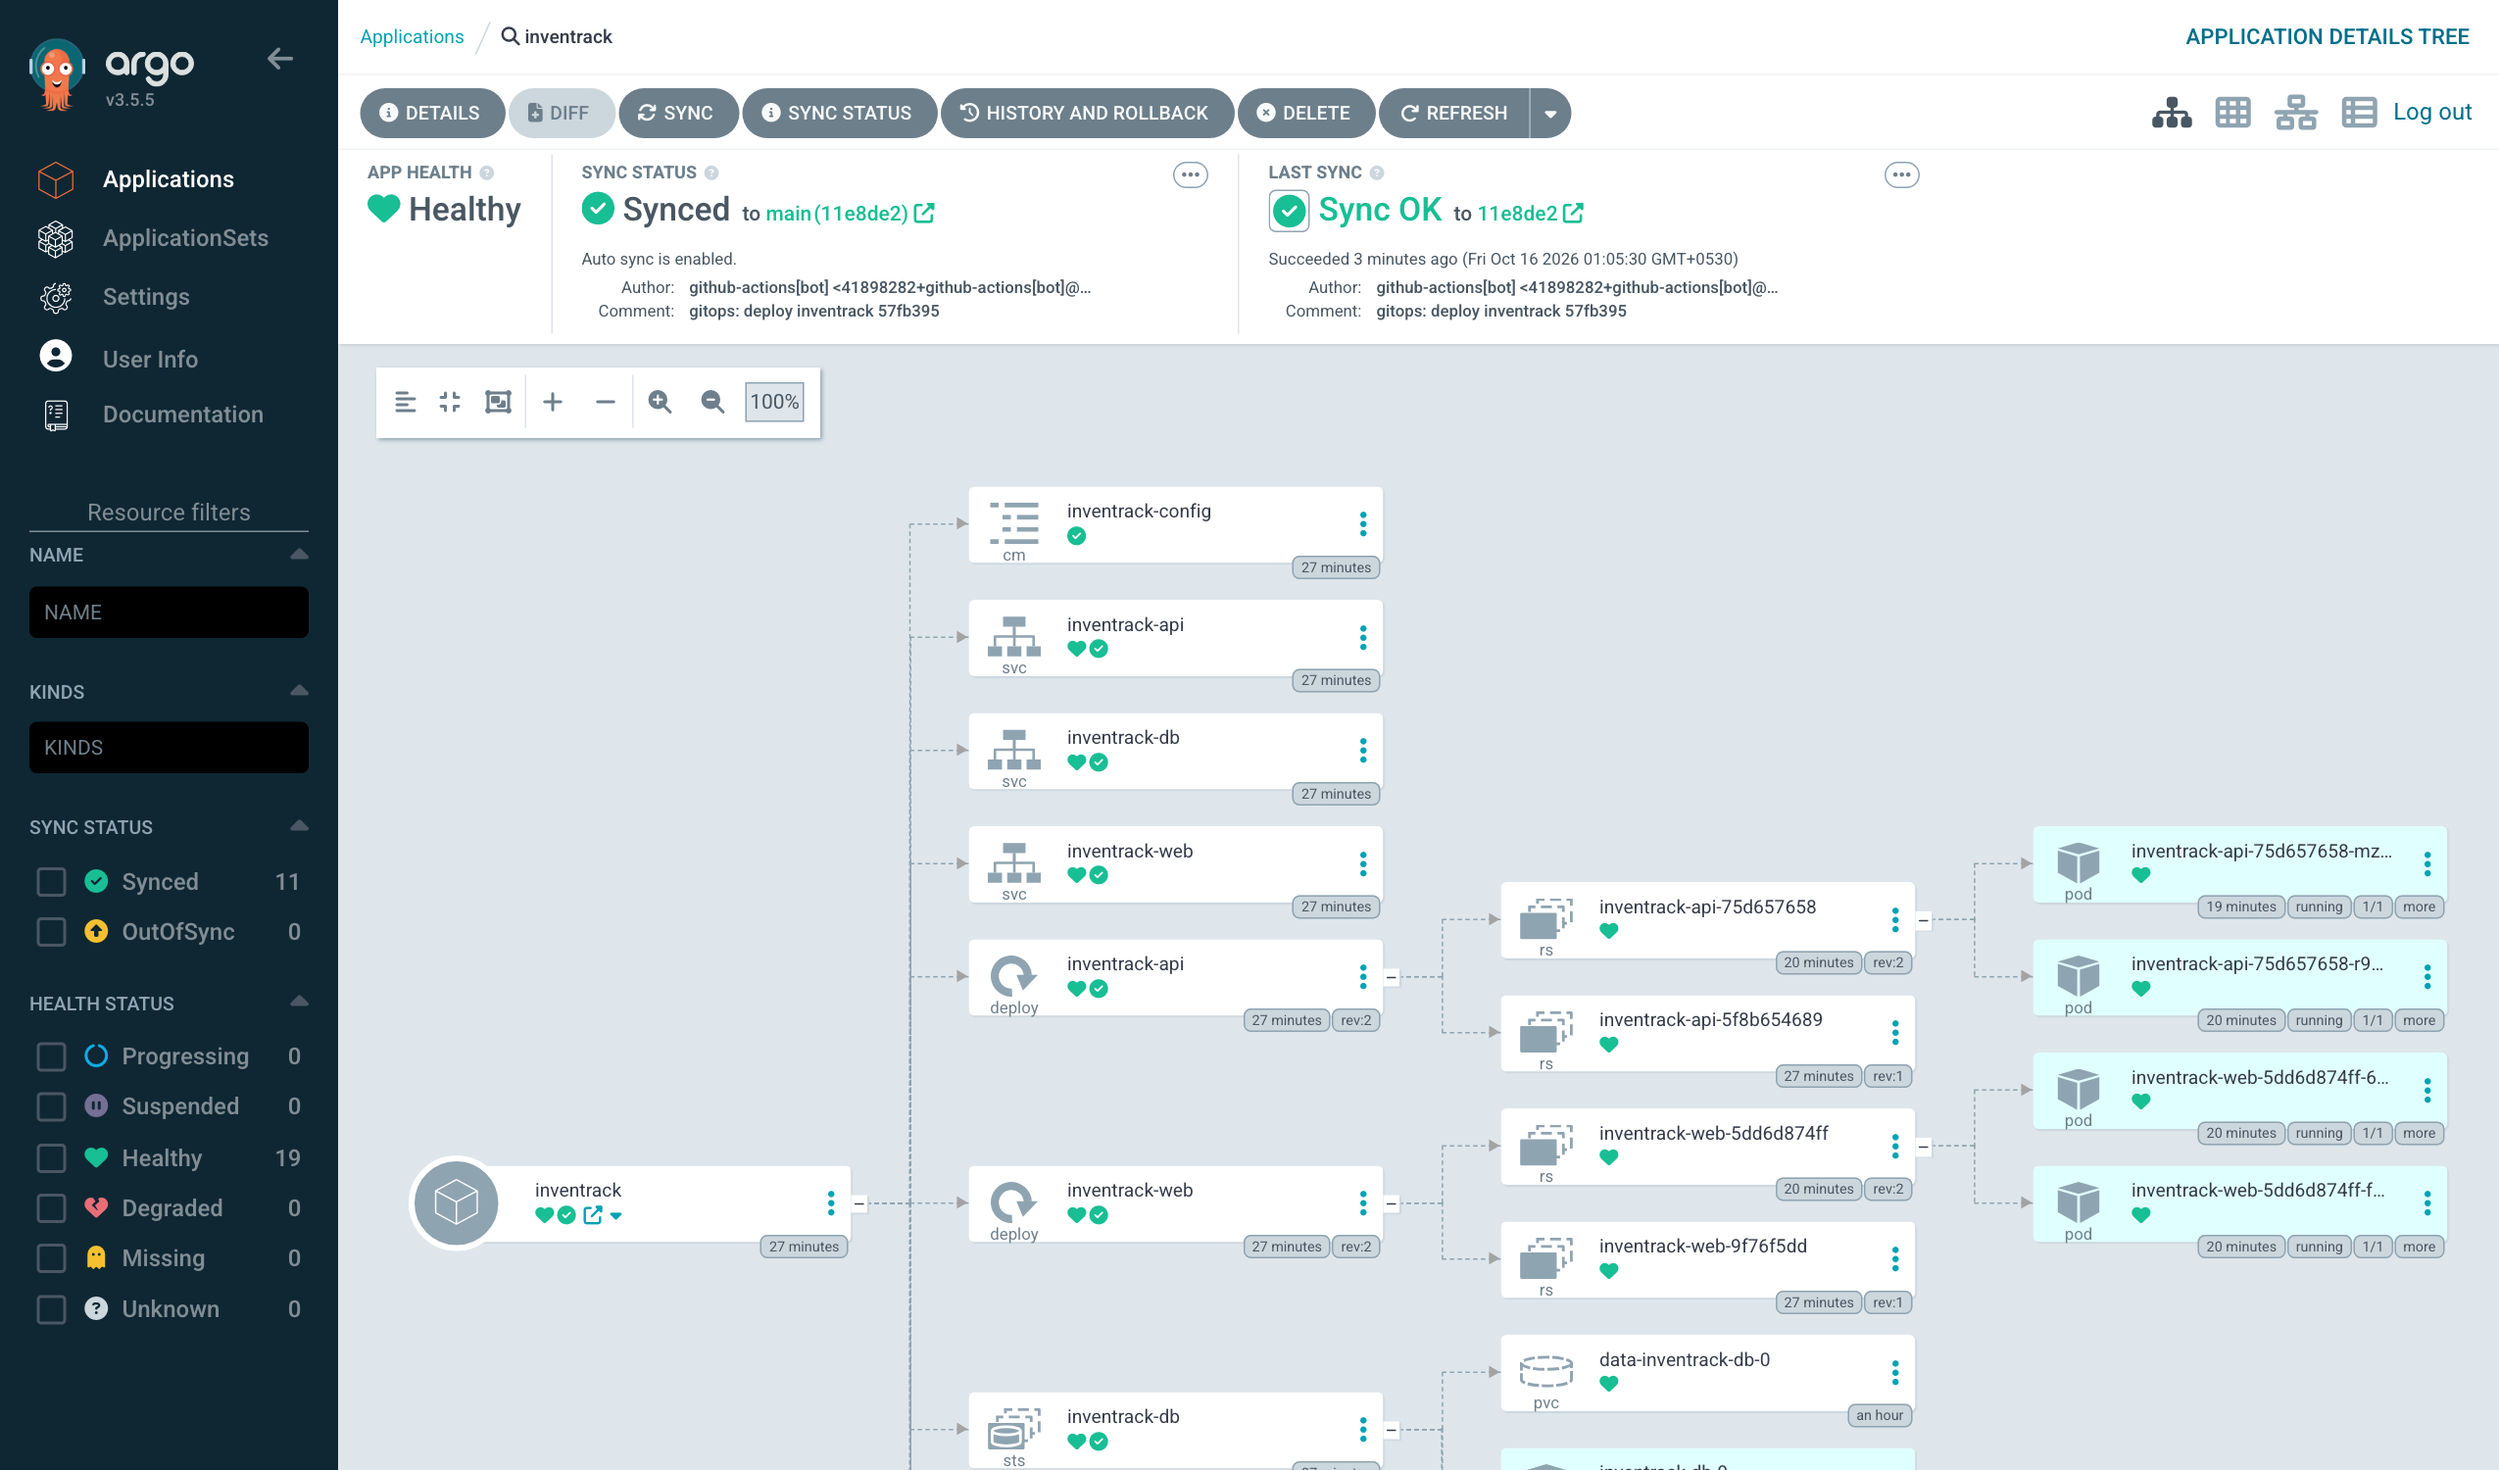
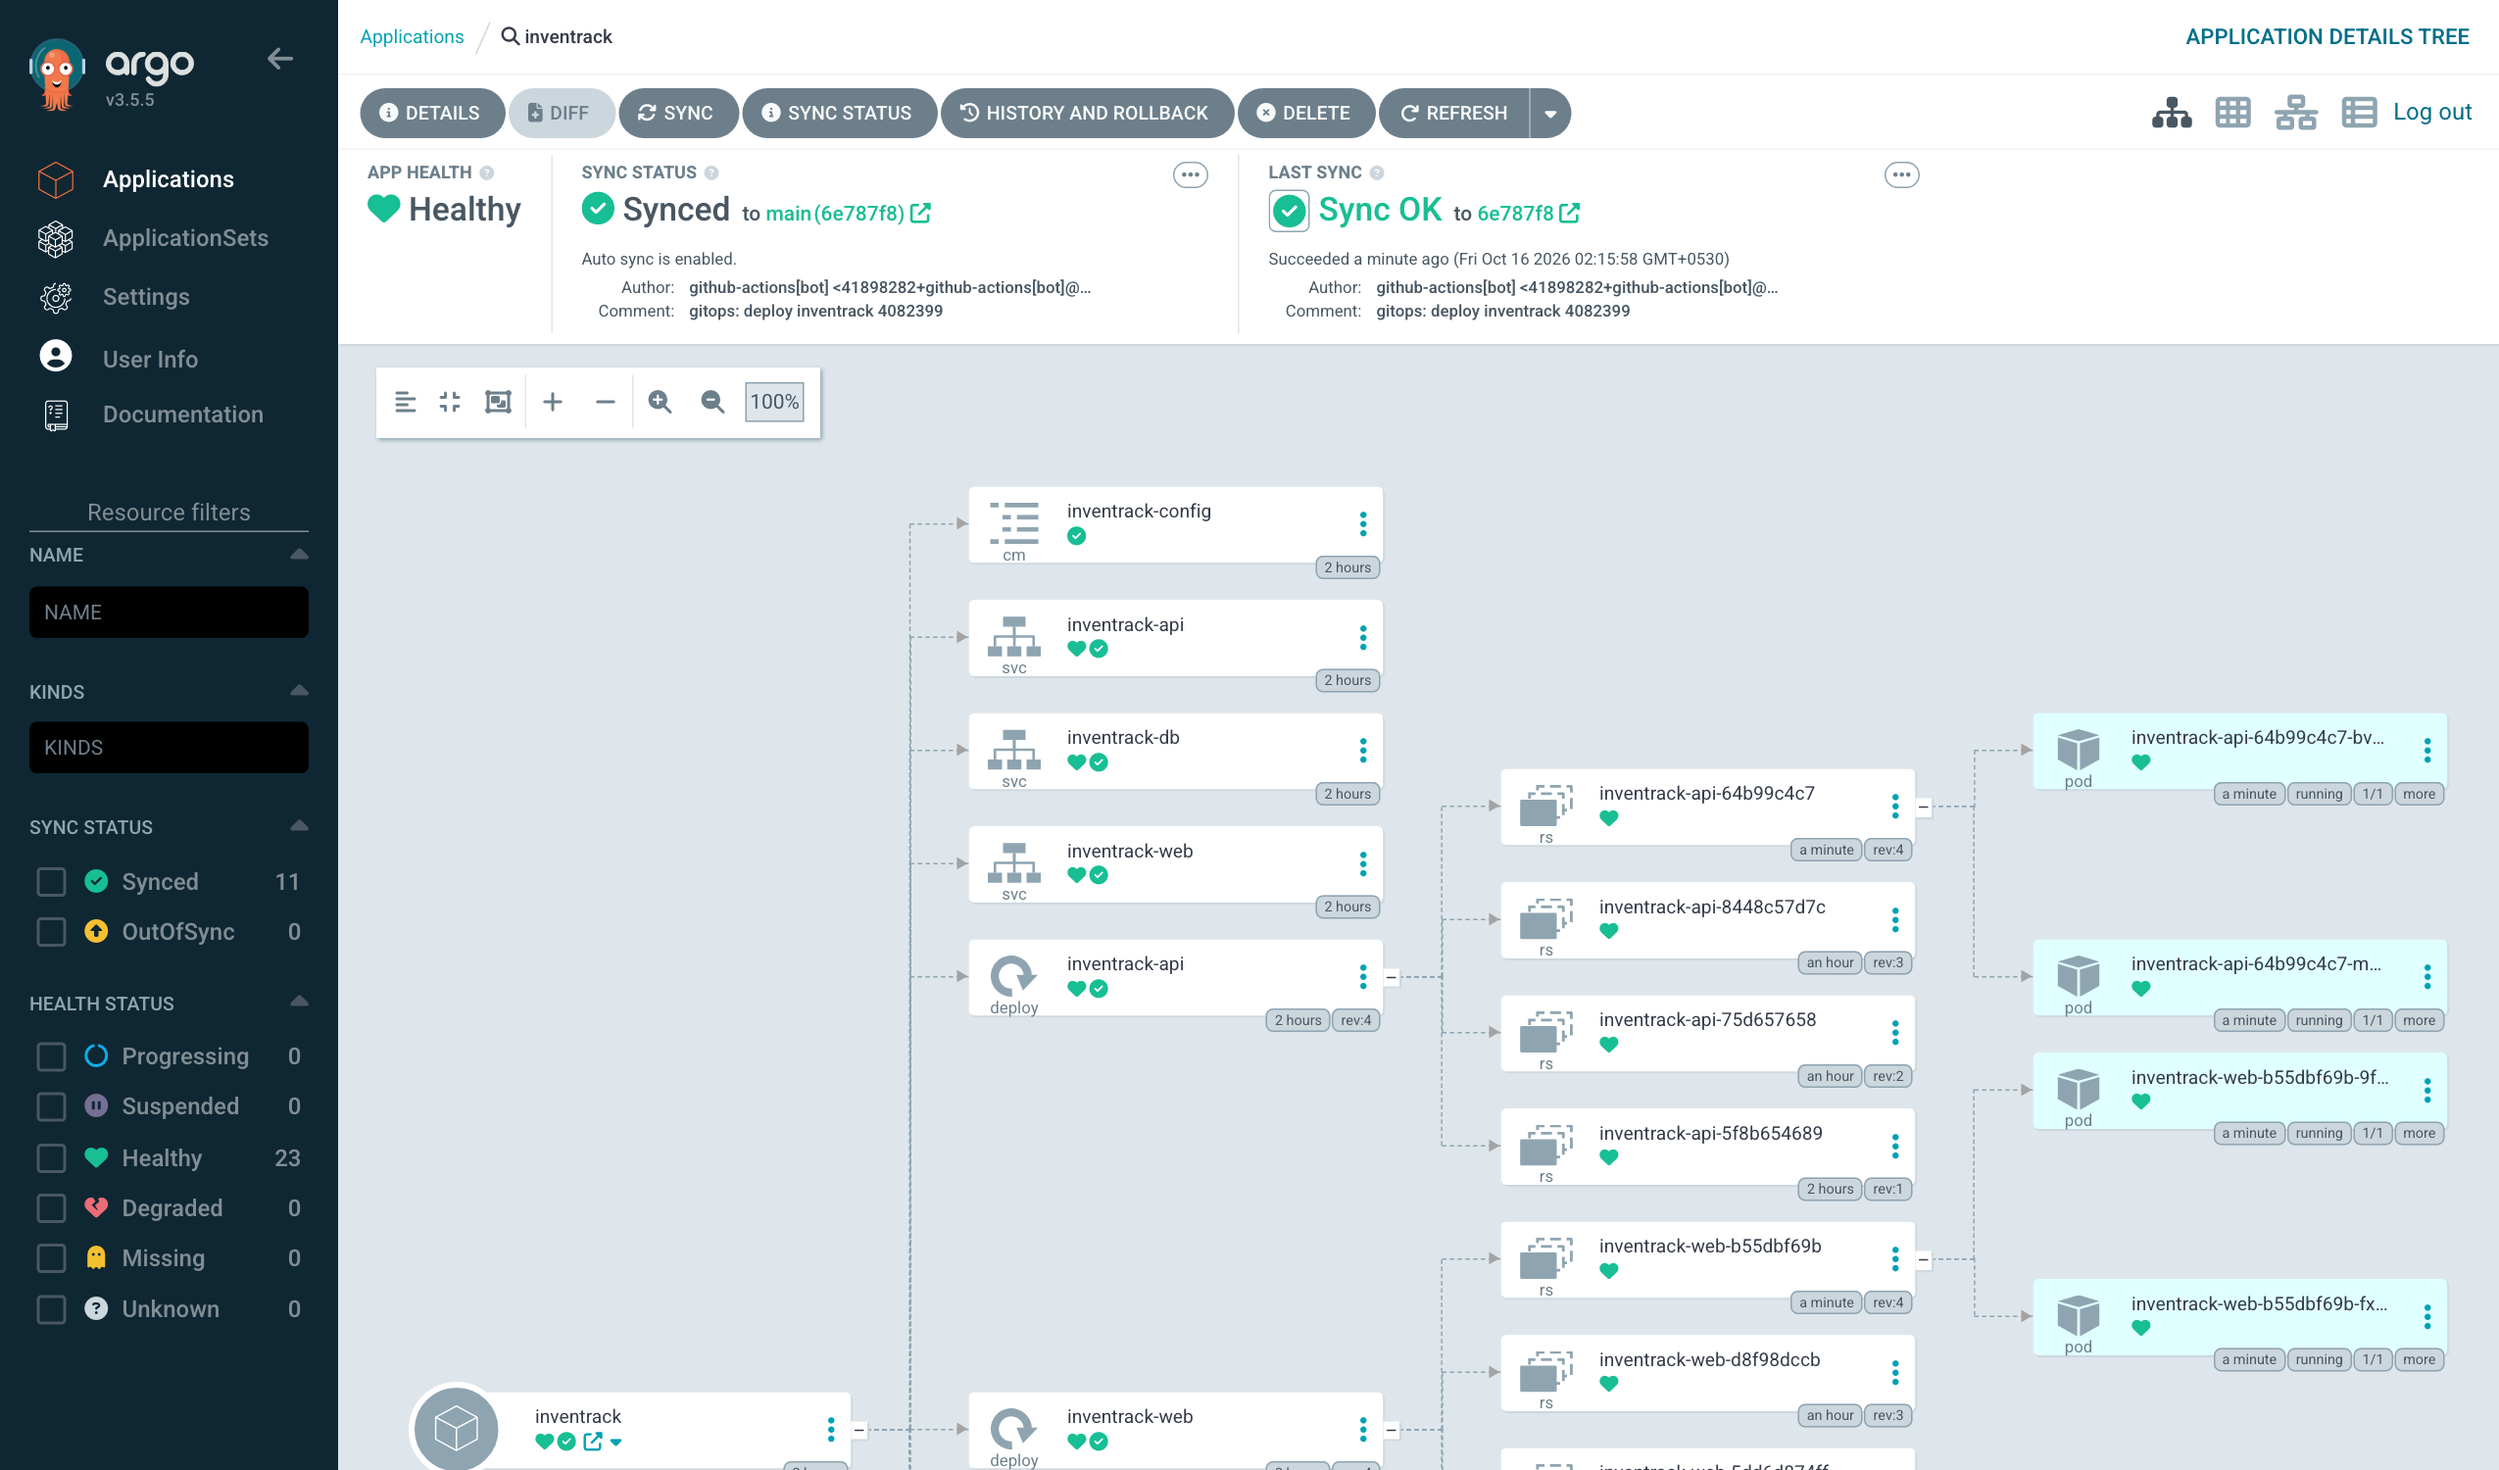
Docs: screenshots and GitOps notes for the AbhiGandhi02 repository

diff --git a/gitops/README.md b/gitops/README.md
@@ -35,10 +35,12 @@ The GHCR packages inherit the repository's **public** visibility, so the cluster
 
 **Rollback** is a `git revert` of the bump commit. Argo CD then deploys the previous SHA.
 
-## Live run (v1.1)
+## Live run
 
-I pushed commit `57fb395` ("Release v1.1"). CI built and pushed new images, and the `gitops-bump` job committed the new SHA. Argo CD synced it and rolled the pods without any manual step:
+Commit `4082399` was pushed to `main`. CI run [#38803735072](https://github.com/AbhiGandhi02/inventrack-devops/actions/runs/38803735072) tested, scanned, built and pushed `ghcr.io/abhigandhi02/inventrack-devops/inventrack-{backend,frontend}:4082399…`. Its `gitops-bump` job committed `6e787f8 gitops: deploy inventrack 4082399`. Argo CD picked up that commit and rolled both Deployments onto the new images, with no manual `kubectl` or `helm` step:
 
 ![Argo CD application synced and healthy](../screenshots/argocd-app.png)
+
+The release that changed the footer to v1.1 went through the same flow. The app as served through the Ingress afterwards:
 
 ![v1.1 live](../screenshots/gitops-v1.1-live.png)

diff --git a/README.md b/README.md
@@ -256,7 +256,7 @@ I broke the running cluster four ways and fixed each one: an image tag that does
    ```
 7. Reload the app and the change is live. Grafana shows the demo traffic.
 
-I ran this exact flow for v1.1. See [gitops/README.md](gitops/README.md#live-run-v11).
+I ran this flow end to end. See [gitops/README.md](gitops/README.md#live-run).
 
 ---
 
